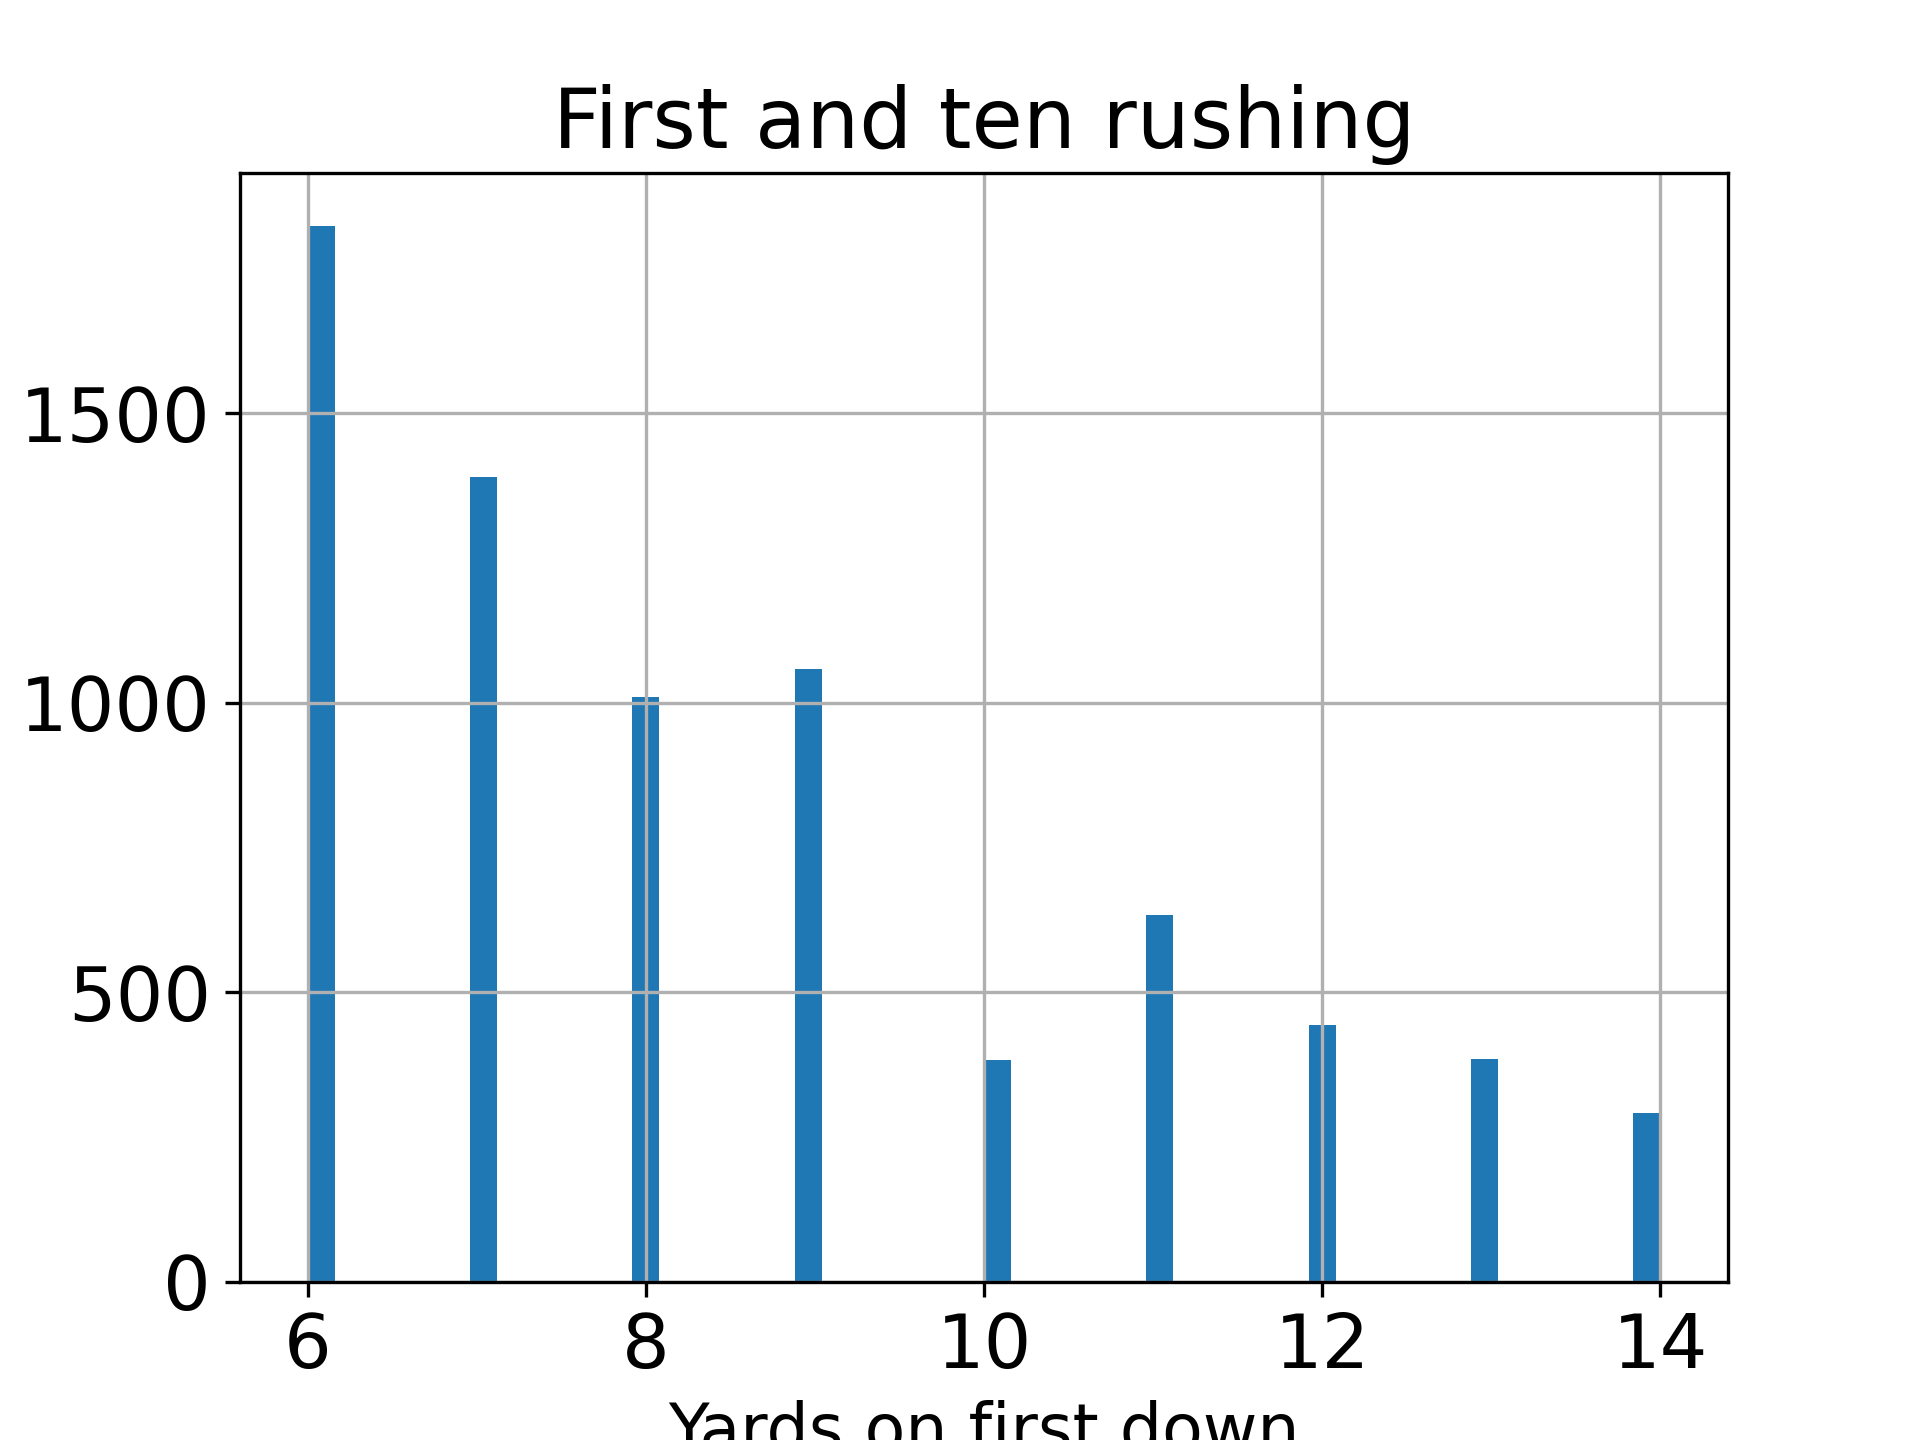
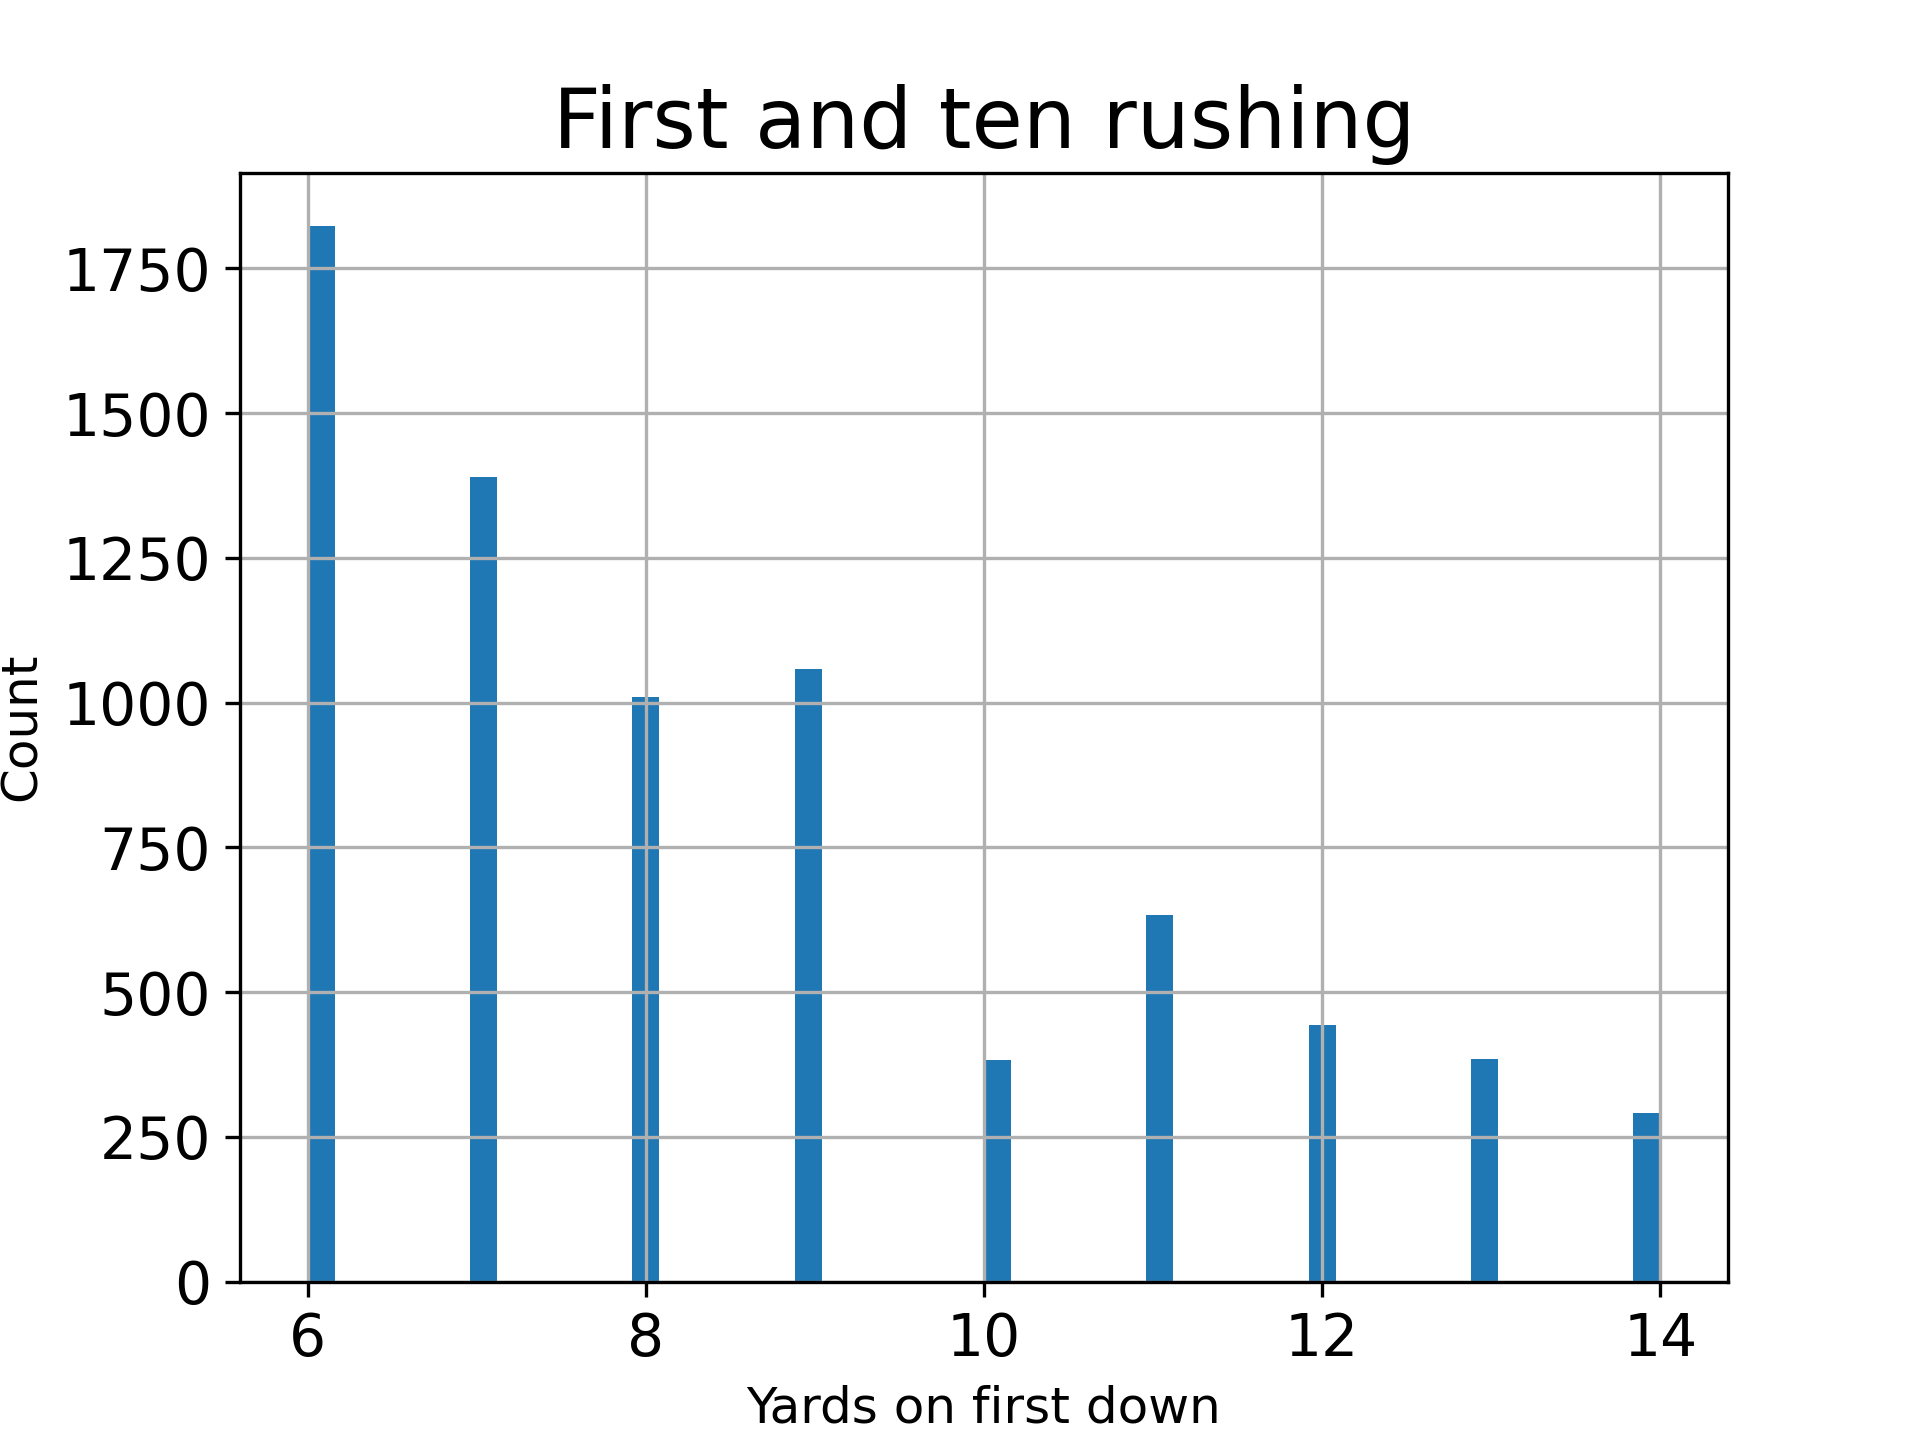
pics

diff --git a/images/make_first_and_ten_rushing.py b/images/make_first_and_ten_rushing.py
@@ -8,7 +8,7 @@ font = {'family' : 'normal',
 import matplotlib
 matplotlib.rc('font', **font)
 
-dpi = 1200
+dpi = 300
 
 gains_on_first = df.loc[(df['dwn']==1)& (df['ytg']==10) & (df['type']=='RUSH') & (df['yds']<15) & (df['yds']>5),:]
 gains_on_first[['yds']].rename(columns={'yds':'First Down Yards Gained'}).hist(bins=50)

diff --git a/images/make_first_and_five_passing.py b/images/make_first_and_five_passing.py
@@ -8,7 +8,7 @@ font = {'family' : 'normal',
 import matplotlib
 matplotlib.rc('font', **font)
 
-dpi = 1200
+dpi = 300
 
 gains_on_first = df.loc[(df['dwn']==1)& (df['ytg']==5) & (df['type']=='PASS') & (df['yds']<8) & (df['yds']>1),:]
 gains_on_first[['yds']].rename(columns={'yds':'First Down Yards Gained'}).hist(bins=50)
